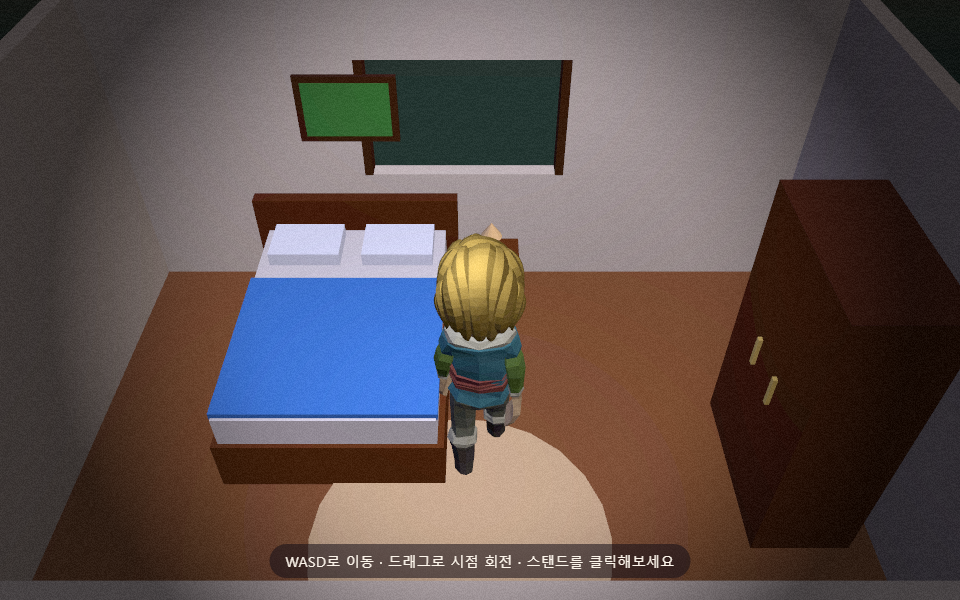
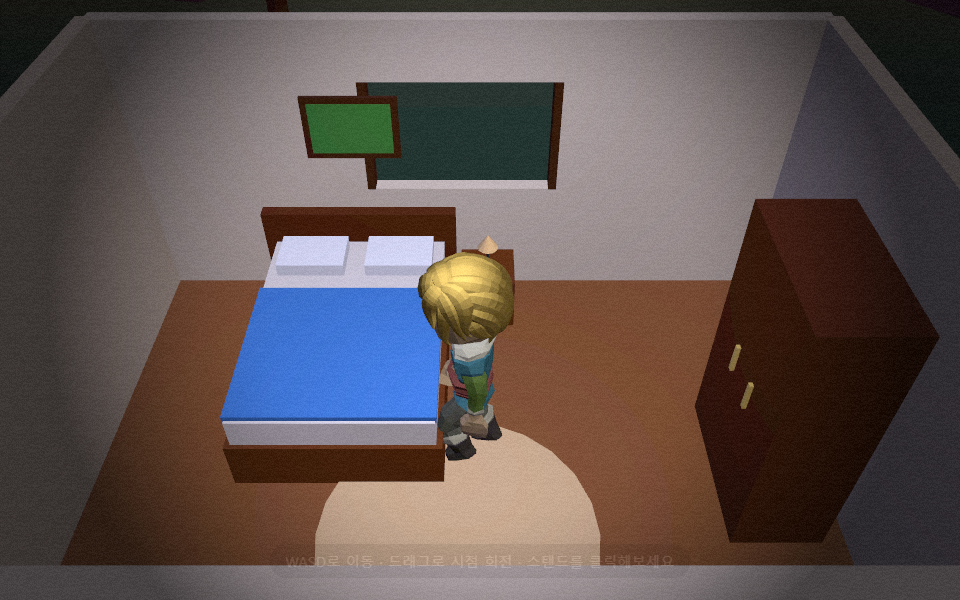
fix(m4-polish): revert invertX, add layout window check (31 pieces), update yard lawn color & surround trees, refresh screenshots

Changed region(s): [[0.0312, 0.09, 1.0, 0.99], [0.0, 0.0, 1.0, 0.3]]

diff --git a/game/src/world/exterior.js b/game/src/world/exterior.js
@@ -66,7 +66,11 @@ export function createExterior(scene) {
     [11, -2],
     [-3, -12],
     [2, -14],
+    [-9.5, 0],
+    [-9.5, -4.5],
+    [-9.5, 4.5],
   ];
+
 
   // BBox X[-8.5, 8.5] · Z[-8.5, 8.5] 내부 나무 동적 계산 및 제거
   const inBBox = ([x, z]) => x >= -8.5 && x <= 8.5 && z >= -8.5 && z <= 8.5;

diff --git a/game/src/config/camera.js b/game/src/config/camera.js
@@ -18,6 +18,7 @@ export const CAM = {
   dragSensitivity: 0.006,
   // 드래그 시점 회전 반전 — followCamera.js는 이 부호만 읽고 숫자를 직접
   // 흩뿌리지 않는다. true가 기본값(둘 다 반전).
-  invertX: true,
+  invertX: false,
   invertY: true,
 };
+

diff --git a/game/src/world/layout.js b/game/src/world/layout.js
@@ -37,8 +37,9 @@ export const YARD = {
   z0: -2.5,
   x1: -3,
   z1: 2.5,
-  floorColor: 0x6e9c53,
+  floorColor: 0x5a7d48,
 };
+
 
 // §9.1 B-4a 마당 울타리 3면
 export const FENCES = [
